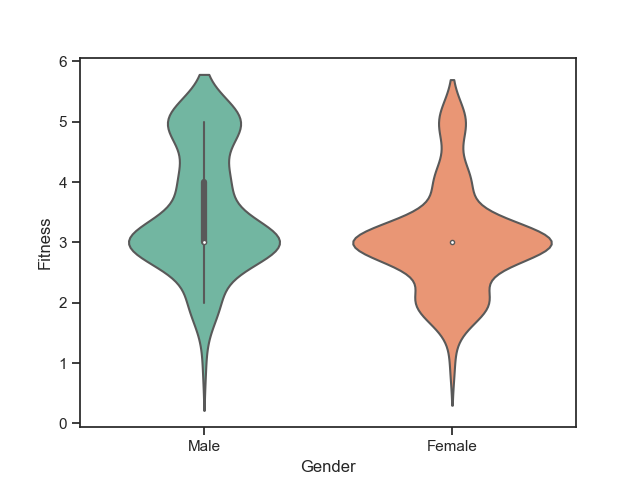
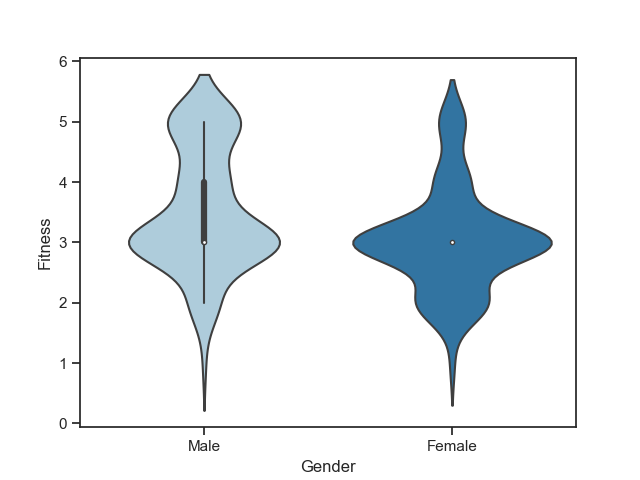
Update graph colors

Changed region(s): [[0.5312, 0.1562, 0.875, 0.8438], [0.1875, 0.1562, 0.4375, 0.8438]]

diff --git a/eda_cardio_fitness.py b/eda_cardio_fitness.py
@@ -12,7 +12,7 @@ def prelim_data(data_csv):
     return dffitness
 
 def violin_plot(df,output_path):
-    v = sns.violinplot(x="Gender", y="Fitness", data=df,palette="Set2")
+    v = sns.violinplot(x="Gender", y="Fitness", data=df)
     fig = v.get_figure()
     fig.savefig(output_path+"/gender_fitness_distribution.png")
 
